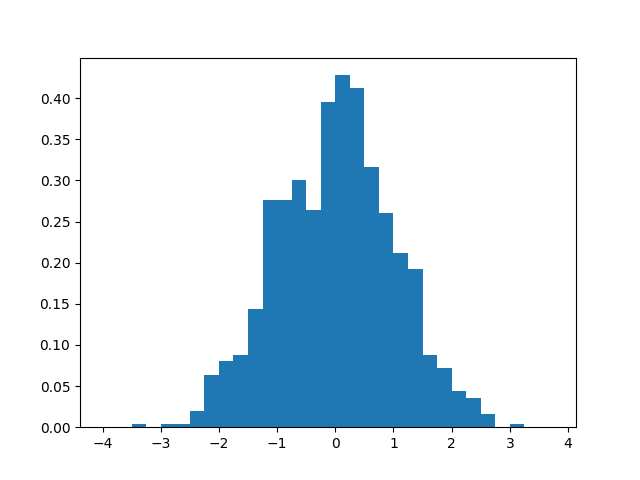
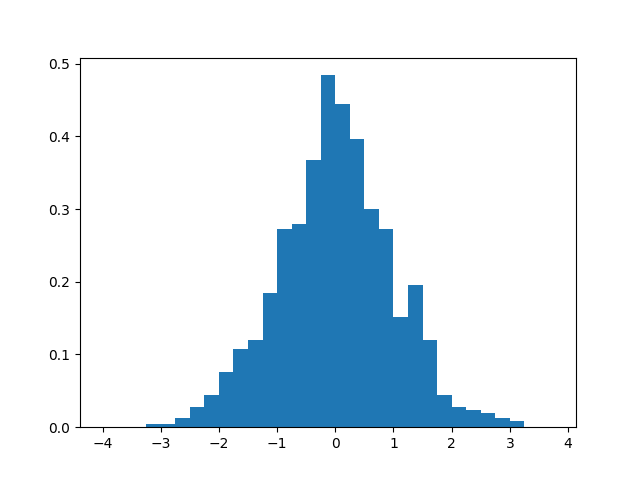
Tested code

diff --git a/lab5/graphing.py b/lab5/graphing.py
@@ -114,4 +114,4 @@ def repeatRandomSamples(trials=10, mean=0, sd=1, sampleSize=1000, binSize = np.a
 
 
 if __name__ == '__main__':
-    pass # TODO: remove this once you add script code here!
+    repeatRandomSamples()
